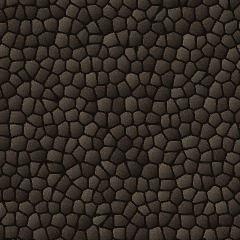
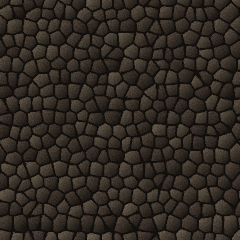
Add files via upload

diff --git a/style.css b/style.css
@@ -18,7 +18,7 @@ img{display:block}
 /* nav */
 #nav{position:fixed;top:0;left:0;right:0;z-index:50;display:flex;align-items:center;gap:16px;padding:10px clamp(14px,3vw,28px);background:linear-gradient(rgba(12,9,6,.88),rgba(12,9,6,.72));border-bottom:2px solid #000;box-shadow:inset 0 -2px 0 #2e251b;backdrop-filter:blur(4px)}
 .brand{display:flex;align-items:center;gap:10px;text-decoration:none}
-.brand img{width:42px;height:42px}
+.brand img{width:42px;height:42px;image-rendering:pixelated;filter:drop-shadow(0 2px 4px rgba(0,0,0,.6))}
 .brand b{font:26px/1 MM;letter-spacing:.03em;background:linear-gradient(#FFF3A0,#FFC928 45%,#F07A12 80%,#C2360A);-webkit-background-clip:text;background-clip:text;color:transparent;filter:drop-shadow(1px 1px 0 #160802) drop-shadow(0 2px 0 #3a1a04)}
 .links{position:absolute;left:50%;top:50%;transform:translate(-50%,-50%);display:flex;gap:6px}
 .links a{padding:8px 15px;text-decoration:none;font-size:15px;color:var(--cream);text-shadow:1px 1px 0 #000;background:linear-gradient(#4a3e2d,#33291e);border:2px solid #000;box-shadow:inset 1px 1px 0 #6B5A40,inset -1px -1px 0 #1c1610;transition:color .15s,filter .15s}
@@ -60,7 +60,9 @@ img{display:block}
 .live{display:inline-flex;align-items:center;gap:8px}
 
 /* hero */
-.hero{position:relative;height:100svh;min-height:640px;overflow:hidden;background:#0b0806}
+.hero{position:relative;height:100svh;min-height:640px;overflow:hidden;background:transparent}
+@media (min-width:900px){.hero::before{content:"";position:absolute;inset:0;pointer-events:none;background:radial-gradient(circle at 9.8% 49%,rgba(255,140,50,.20),transparent 20%),radial-gradient(circle at 90.2% 49%,rgba(255,140,50,.20),transparent 20%);animation:tglow 2.2s ease-in-out infinite alternate}}
+@keyframes tglow{to{opacity:.7}}
 #hall{position:absolute;inset:0;width:100%;height:100%;display:block;outline:none}
 .hero-ui{position:absolute;left:0;right:0;top:44%;transform:translateY(-50%);display:flex;flex-direction:column;align-items:center;text-align:center;pointer-events:none;z-index:2}
 .hero-ui .logo{width:min(640px,86vw);filter:drop-shadow(0 0 40px rgba(255,120,30,.25));animation:flick 3s infinite}
@@ -215,7 +217,7 @@ footer{margin-top:120px;padding:56px 20px 70px;text-align:center;border-top:2px 
 @media (prefers-reduced-motion:reduce){*{animation:none!important;transition:none!important}html{scroll-behavior:auto}}
 
 /* loading screen */
-#loader{position:fixed;inset:0;z-index:200;display:grid;place-items:center;overflow:hidden;background:#030202 url(wall.png) center/820px;image-rendering:pixelated;transition:opacity .7s,visibility .7s}
+#loader{position:fixed;inset:0;z-index:200;display:grid;place-items:center;overflow:hidden;background:#030202 url(wall.png) center/960px;image-rendering:pixelated;transition:opacity .7s,visibility .7s}
 #loader::before{content:"";position:absolute;inset:0;background:radial-gradient(ellipse at 50% 50%,rgba(0,0,0,.25),rgba(0,0,0,.94) 58%);z-index:1}
 #loader.done{opacity:0;visibility:hidden}
 .ld-light{position:absolute;inset:0;z-index:2;background:radial-gradient(circle at 50% 46%,rgba(255,120,30,.20),transparent 38%);animation:flk 3.2s infinite steps(1)}

diff --git a/app.js b/app.js
@@ -109,15 +109,12 @@ const CAST=[
   {name:'Old Grinder',o:{top:0x6B4A2A,top2:0x4E3620,leg:0x3E5A2A,hat:'party',hatc:0xD83030,rh:'pick',ra:[-.9,.25],rf:[-.9,0],belt:0x2a1a0c},lines:['Back in my day we grinded for grails.','Now the fees do the grinding. Kids these days.']}
 ];
 
-function hall(){const cv=$('#hall');let R;try{R=new THREE.WebGLRenderer({canvas:cv,antialias:true,alpha:false,powerPreference:'high-performance'})}catch(e){cv.style.background='url(banner.jpg) center/cover';window.__hallReady=true;return}
-  R.setPixelRatio(Math.min(1.5,devicePixelRatio||1));R.shadowMap.enabled=true;R.shadowMap.type=THREE.PCFSoftShadowMap;R.setClearColor(0x0b0806);
-  const S=new THREE.Scene();S.fog=new THREE.Fog(0x0b0806,30,60);
+function hall(){const cv=$('#hall');let R;try{R=new THREE.WebGLRenderer({canvas:cv,antialias:true,alpha:true,premultipliedAlpha:false,powerPreference:'high-performance'})}catch(e){cv.style.background='url(banner.jpg) center/cover';window.__hallReady=true;return}
+  R.setPixelRatio(Math.min(1.5,devicePixelRatio||1));R.shadowMap.enabled=true;R.shadowMap.type=THREE.PCFSoftShadowMap;R.setClearColor(0x000000,0);
+  const S=new THREE.Scene();
   const cam=new THREE.PerspectiveCamera(35,1,.1,200);
   // wall + floor
-  const wt=new THREE.CanvasTexture(cobbleCanvas(256,256,9,13));wt.wrapS=wt.wrapT=THREE.RepeatWrapping;wt.repeat.set(9,4);wt.magFilter=THREE.NearestFilter;wt.colorSpace=THREE.SRGBColorSpace;
-  const wall=new THREE.Mesh(new THREE.PlaneGeometry(90,40),new THREE.MeshLambertMaterial({map:wt,color:0x8a7a68}));wall.position.set(0,14,-6);wall.receiveShadow=true;S.add(wall);
-  const ft=new THREE.CanvasTexture(cobbleCanvas(256,256,31,14,[50,44,38]));ft.wrapS=ft.wrapT=THREE.RepeatWrapping;ft.repeat.set(10,3);ft.magFilter=THREE.NearestFilter;ft.colorSpace=THREE.SRGBColorSpace;
-  const floor=new THREE.Mesh(new THREE.PlaneGeometry(90,30),new THREE.MeshLambertMaterial({map:ft,color:0x9a8a78}));floor.rotation.x=-Math.PI/2;floor.position.set(0,0,8);floor.receiveShadow=true;S.add(floor);
+  const floor=new THREE.Mesh(new THREE.PlaneGeometry(90,30),new THREE.ShadowMaterial({opacity:.5}));floor.rotation.x=-Math.PI/2;floor.position.set(0,0,8);floor.receiveShadow=true;S.add(floor);
   // lights
   S.add(new THREE.AmbientLight(0x6a5a50,.95));
   const k1=new THREE.DirectionalLight(0xffb070,1.7);k1.position.set(-9,9,9);k1.castShadow=true;k1.shadow.mapSize.set(2048,2048);Object.assign(k1.shadow.camera,{left:-20,right:20,top:14,bottom:-8,near:1,far:50});S.add(k1);

diff --git a/index.html b/index.html
@@ -10,7 +10,9 @@
 <meta property="og:image" content="banner.jpg">
 <meta name="twitter:card" content="summary_large_image">
 <meta name="theme-color" content="#0b0806">
-<link rel="icon" href="favicon.png">
+<link rel="icon" type="image/png" sizes="64x64" href="favicon.png">
+<link rel="icon" type="image/png" sizes="32x32" href="favicon-32.png">
+<link rel="apple-touch-icon" href="apple-touch-icon.png">
 <link rel="preload" href="pixelify-sans-latin-400-normal.woff2" as="font" type="font/woff2" crossorigin>
 <link rel="preload" href="metal-mania-latin-400-normal.woff2" as="font" type="font/woff2" crossorigin>
 <link rel="stylesheet" href="style.css">
@@ -29,7 +31,7 @@
 </div>
 
 <header id="nav">
- <a class="brand" href="#top" aria-label="BANKSTR home"><img src="pfp-200.png" alt=""><b>BANKSTR</b></a>
+ <a class="brand" href="#top" aria-label="BANKSTR home"><img src="brand.png" alt=""><b>BANKSTR</b></a>
  <nav class="links" id="links"><a href="#top">Hall</a><a href="#grails">Grails</a><a href="#bank">Bank</a><a href="#how">How</a><a href="#rules">Rules</a><a href="#faq">FAQ</a></nav>
  <div class="nav-r">
   <a class="icon-btn" data-x href="#" target="_blank" rel="noopener" aria-label="BANKSTR on X"><svg viewBox="0 0 24 24"><path d="M18.9 2H22l-7.3 8.3L23 22h-6.6l-5.1-6.7L5.4 22H2.3l7.8-8.9L1.5 2h6.8l4.6 6.1L18.9 2Zm-1.2 18h1.8L7.4 3.9H5.5L17.7 20Z"/></svg></a>
